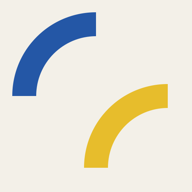
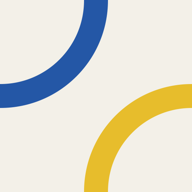
pwa fixes

Changed region(s): [[0.0, 0.0, 0.5625, 0.5625], [0.4375, 0.4375, 1.0, 1.0]]

diff --git a/src/app.js b/src/app.js
@@ -265,14 +265,13 @@ function drawAnimatedTile(x, y, anim, now) {
 }
 
 function resize() {
-  width = window.innerWidth;
-  height = window.innerHeight;
+  const rect = canvas.getBoundingClientRect();
+  width = rect.width || window.innerWidth;
+  height = rect.height || window.innerHeight;
   dpr = Math.min(window.devicePixelRatio || 1, 2.5);
 
   canvas.width = Math.ceil(width * dpr);
   canvas.height = Math.ceil(height * dpr);
-  canvas.style.width = `${width}px`;
-  canvas.style.height = `${height}px`;
 
   ctx.imageSmoothingEnabled = true;
   ctx.imageSmoothingQuality = 'high';

diff --git a/src/styles.css b/src/styles.css
@@ -36,11 +36,15 @@ button {
 
 canvas {
   position: fixed;
-  inset: 0;
+  top: 0;
+  right: 0;
+  bottom: calc(-1 * env(safe-area-inset-bottom));
+  left: 0;
   width: 100vw;
   width: 100dvw;
   height: 100vh;
   height: 100dvh;
+  height: calc(100dvh + env(safe-area-inset-bottom));
   display: block;
   background: var(--bg);
   cursor: grab;

diff --git a/sw.js b/sw.js
@@ -1,4 +1,4 @@
-const CACHE_NAME = 'truchet-fidget-v1';
+const CACHE_NAME = 'truchet-fidget-v2';
 const APP_SHELL = [
   './',
   './index.html',